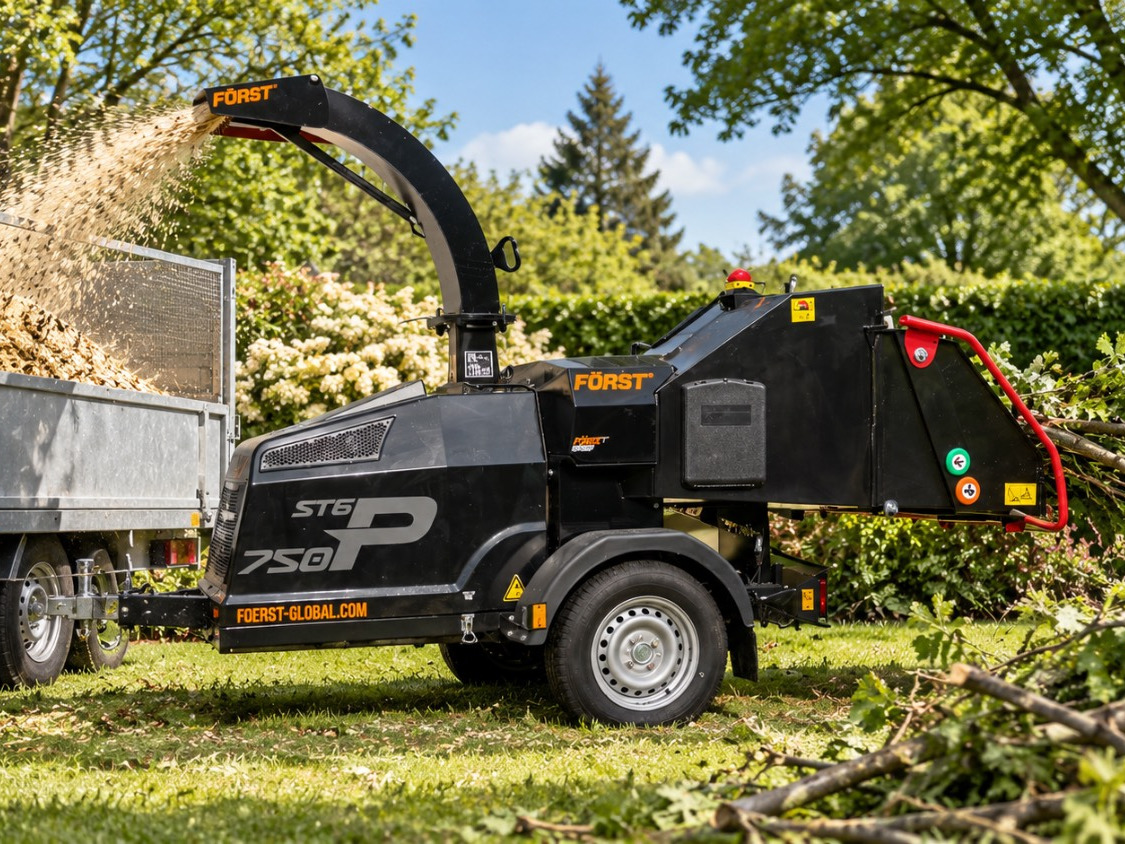
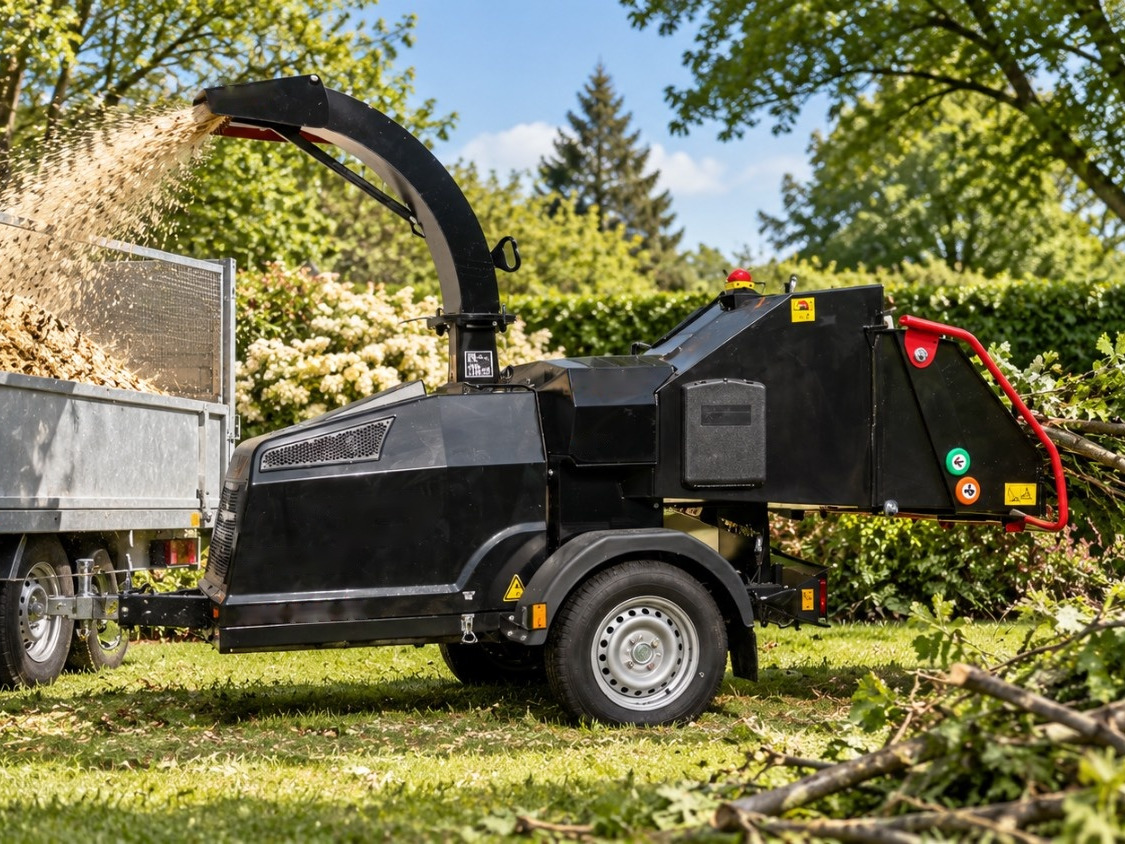
Häckselarbeiten: Herstellername aus dem Symbolbild entfernt, KI-Hinweis vermerkt
Markenname, Modell und Web-Adresse des Herstellers sind aus dem KI-Bild retuschiert.
Die Bildbeschreibung nennt es als Symbolbild, die Checkliste zur Liveschaltung
führt die Bildnachweise für das Impressum auf.

Claude-Session: https://claude.ai/code/session_01XYfuFgBnXiuCWwsguYdwE2

diff --git a/src/config/fotos.ts b/src/config/fotos.ts
@@ -44,7 +44,7 @@ export const fotos: Record<string, { zeigt: string; alt: string }> = {
   },
   'leistung-haeckselarbeiten': {
     zeigt: 'Häckselarbeiten',
-    alt: 'Häcksler zerkleinert Äste und bläst die Hackschnitzel in einen Anhänger',
+    alt: 'Symbolbild, mit KI erstellt: Häcksler zerkleinert Äste und bläst die Hackschnitzel in einen Anhänger',
   },
   'leistung-landschaftspflege-heckenschnitt': { zeigt: 'Landschaftspflege und Heckenschnitt', alt: '' },
   'leistung-seilklettertechnik': {

diff --git a/docs/04-liveschaltung.md b/docs/04-liveschaltung.md
@@ -36,6 +36,10 @@ Der Live-Build bricht ab, solange irgendwo „Platzhalter“ oder die Nummer aus
 - [ ] **Häufige Fragen** mit offenen Angaben:
   - [src/inhalte/faq/kosten-ersteinschaetzung.md](../src/inhalte/faq/kosten-ersteinschaetzung.md): ob die Besichtigung kostenlos ist (Antwortzeit geklärt: 24 Stunden an Werktagen)
 - [ ] **Impressum:** Satz zur Verbraucherschlichtung in [src/pages/impressum.astro](../src/pages/impressum.astro) bestätigen.
+- [ ] **Bildnachweise im Impressum** als eigenen Abschnitt ergänzen (vermerkt am 05.10.2026):
+  - Häckselarbeiten ([src/bilder/leistung-haeckselarbeiten.jpg](../src/bilder/leistung-haeckselarbeiten.jpg)): „Symbolbild, mit KI erstellt“. Herstellername und Modell sind aus dem Bild entfernt. Ersetzen, sobald ein Foto des eigenen Häckslers vorliegt. Nutzungsbedingungen des KI-Programms auf gewerbliche Nutzung prüfen.
+  - Startseite, Hintergrundvideo: Pexels (Video 14076048), Urheber eintragen. Link, Name und Downloaddatum aufbewahren.
+  - Übrige Fotos (Baumfällung, Baumpflege, Seilklettertechnik, Sturmschadenbeseitigung, Wurzelstockentfernung): Quelle klären. Bei Pexels Urheber nennen, bei KI „Symbolbild, mit KI erstellt“, eigene Fotos brauchen keinen Nachweis.
 - [ ] **Datenschutzerklärung** aus einem Generator in [src/inhalte/seiten/datenschutz.md](../src/inhalte/seiten/datenschutz.md) einfügen. Angaben dafür: Konzept 9.4 (Hosting bei Hostinger, Server-Logs, Kontaktformular mit Fotos und Mailversand, WhatsApp-Link, keine Cookies, kein Tracking, keine externen Schriften).
 - [ ] **Fotos:** mindestens das Startseitenfoto, besser auch Über uns, Baumpflege und Baumfällung (Anleitung in [src/bilder/README.md](../src/bilder/README.md)). Ohne Foto zeigt die Live-Seite eine ruhige Fläche mit dem Baumsymbol statt „Foto folgt“.
 - [ ] **Referenzen und Bewertungen:** zum Start gern zwei bis drei echte Referenzen und drei bis vier echte Google-Bewertungen. Ohne freigegebene Einträge blendet die Live-Seite die Bewertungen aus, die Referenzseite nennt „in Kürze“.
